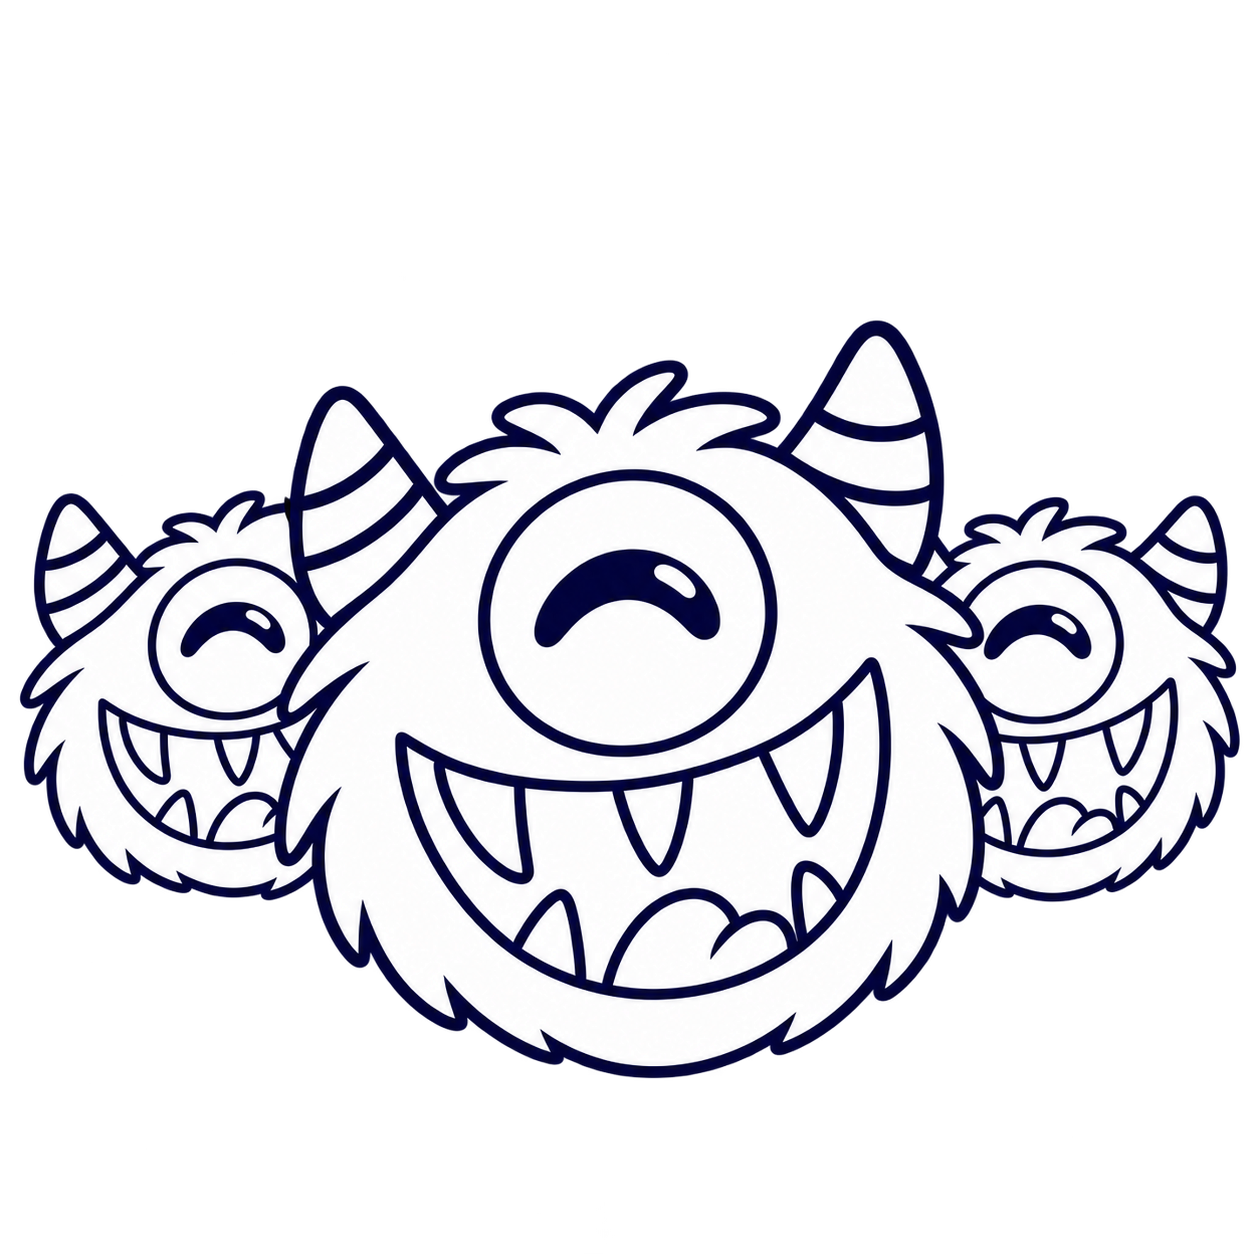
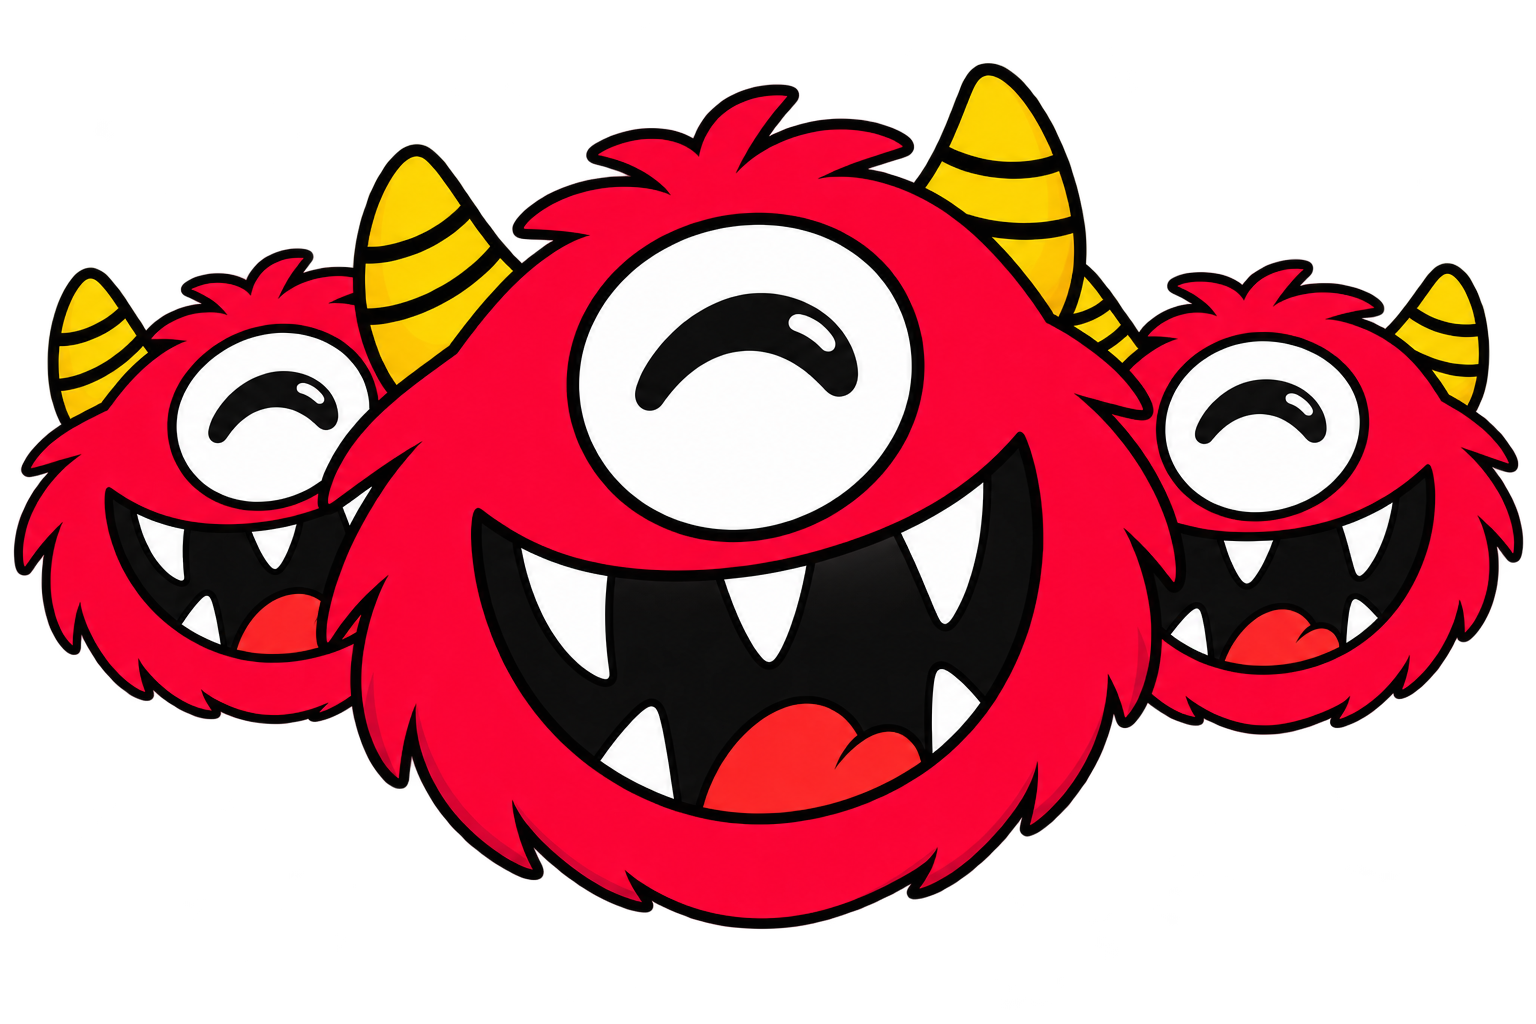
Adicion Imagenes y activacionde Tutor IA

diff --git a/edu-verse/src/pages/Profile.jsx b/edu-verse/src/pages/Profile.jsx
@@ -366,7 +366,7 @@ const Profile = () => {
               { to: '/biblioteca', label: 'Biblioteca', desc: 'Apuntes y materiales', img: '/Iconos/libros.png' },
               { to: '/gestor-equipos', label: 'Gestor de equipos', desc: 'Tareas y tableros', img: '/Iconos/grupo2.png' },
               // Mismo tratamiento que en Home: sin link, atenuado y con badge.
-              { to: null, label: 'Tutor IA', desc: 'Resuelve dudas y crea resúmenes', img: '/Iconos/mascota_robot.png', proximamente: true },
+              { to: '/tutor', label: 'Tutor IA', desc: 'Resuelve dudas y crea resúmenes', img: '/Iconos/mascota_robot.png'},
             ].map((m) => {
               const cuerpo = (
                 <>
